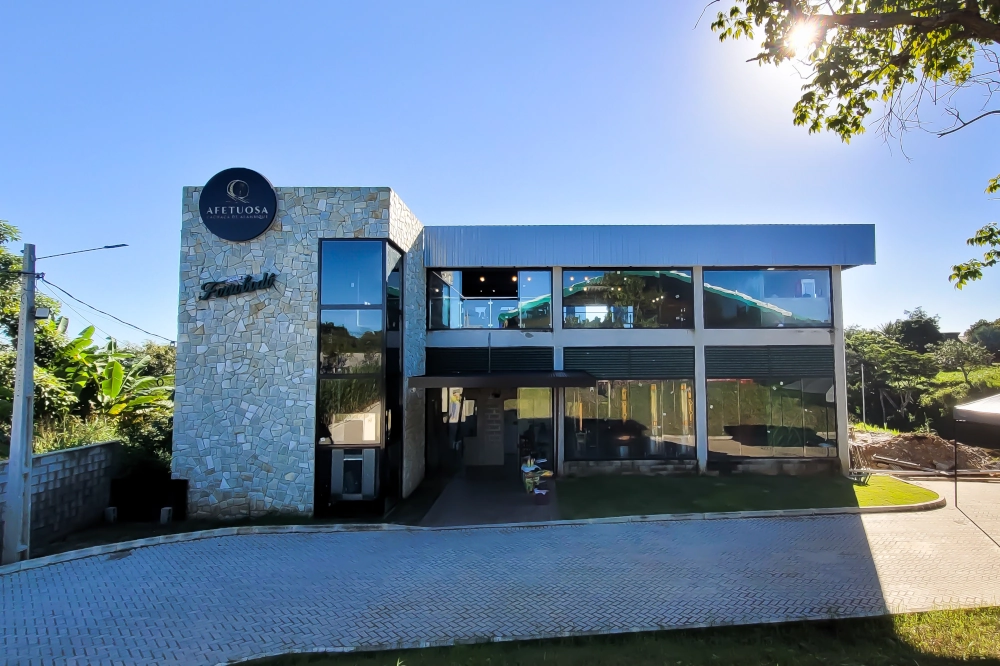
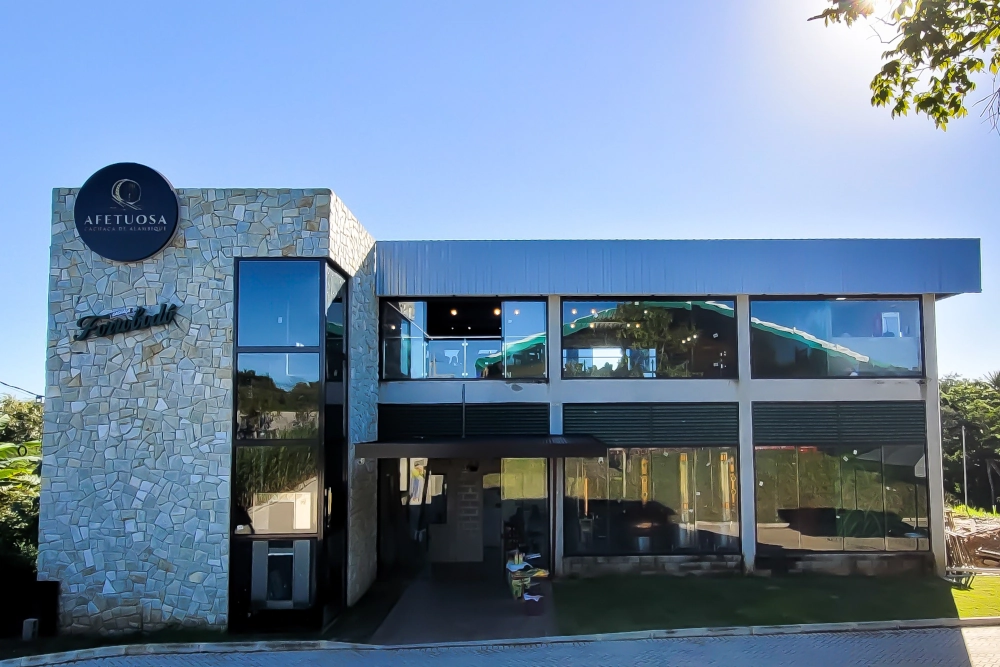
atualizando sobre

diff --git a/style.css b/style.css
@@ -15,9 +15,9 @@ VERSÃO REFINADA (ajustes pontuais solicitados)
     --cor-dourado: #B28600;
     --cor-dourado-claro: #D9B54A;
     --cor-texto-claro: #F2EDE3;
-    --cor-texto-claro-dim: rgba(242, 237, 227, 0.65);
+    --cor-texto-claro-dim: rgba(242, 237, 227, 0.85);
     --cor-texto-escuro: #1A1612;
-    --cor-texto-escuro-dim: rgba(26, 22, 18, 0.62);
+    --cor-texto-escuro-dim: rgba(26, 22, 18, 0.85);
     --cor-branca: #FFFFFF;
 
     --cor-faq-bg-hover: #F6F3EC;
@@ -503,7 +503,6 @@ main {
     max-width: 480px;
 }
 
-/* Mesmo tamanho real (480px) da imagem da seção Home, em qualquer largura de tela */
 .sobre-foto-wrap {
     width: 100%;
     max-width: 480px;
@@ -512,7 +511,7 @@ main {
 
 .sobre-foto {
     width: 100%;
-    aspect-ratio: 4 / 3;
+    aspect-ratio: 1000 / 667;
     object-fit: cover;
     border-radius: var(--radius-global);
 }
@@ -590,6 +589,7 @@ main {
     flex-direction: column;
     border: 1px solid rgba(217, 181, 74, 0.08);
     transition: transform var(--transition), border-color var(--transition);
+    cursor: pointer;
 }
 
 .destilaria-item:hover {
@@ -634,11 +634,19 @@ main {
     transition: transform 0.45s ease;
 }
 
-.destilaria-item:hover .destilaria-foto-container img {
-    transform: scale(1.03);
+.destilaria-item:hover {
+    transform: translateY(-3px);
+    border-color: rgba(217, 181, 74, 0.18);
 }
 
-/* SETAS DESTILARIA */
+.destilaria-item.ativo {
+    border-color: rgba(217, 181, 74, 0.4);
+}
+
+.destilaria-item.ativo h3 {
+    color: var(--cor-dourado);
+}
+
 .destilaria-seta {
     width: 48px;
     height: 48px;
@@ -1090,23 +1098,16 @@ main {
 /* RESPONSIVIDADE */
 @media (max-width: 1024px) {
     .home {
-        grid-template-columns: 1fr;
-        padding: 40px 32px;
-        text-align: left;
-        row-gap: 26px;
+        grid-template-columns: 1fr 360px;
+        padding-right: 48px;
     }
 
     .home-esquerda {
-        padding: 0;
-        align-items: flex-start;
+        padding: 48px 40px 48px 48px;
     }
 
     .home-titulo {
-        font-size: 2.4rem;
-    }
-
-    .home-foto-container {
-        padding: 0 0 20px 0;
+        font-size: 2.2rem;
     }
 
     .sobre,
@@ -1115,22 +1116,20 @@ main {
     .visitacao,
     .localizacao,
     .faq {
-        padding: 80px 32px;
+        padding: 100px 48px;
     }
 
-    .sobre-conteudo,
-    .visitacao-conteudo,
-    .localizacao-conteudo {
-        grid-template-columns: 1fr;
-        gap: 40px;
-    }
-
-    .destilaria-item {
-        flex: 0 0 calc((100% - 24px) / 2);
+    .sobre-conteudo {
+        grid-template-columns: 1fr 360px;
+        gap: 48px;
     }
 
     .produtos-grid {
-        grid-template-columns: repeat(2, 1fr);
+        gap: 24px;
+    }
+
+    .localizacao-conteudo {
+        gap: 48px;
     }
 }
 
@@ -1205,14 +1204,6 @@ main {
         flex: 0 0 85%;
         align-items: center;
         text-align: center;
-    }
-
-    .destilaria-item.ativo {
-        border-color: rgba(217, 181, 74, 0.4);
-    }
-
-    .destilaria-item.ativo h3 {
-        color: var(--cor-dourado);
     }
     
     .destilaria-item.animar {

diff --git a/index.html b/index.html
@@ -172,7 +172,7 @@
                 <div class="destilaria-item animar">
                     <div class="destilaria-num">04</div>
                     <h3>Destilação</h3>
-                    <p>Em alambiques de cobre, apenas o coração da destilação é preservado. Esse cuidado elimina impurezas e revela uma cachaça mais pura e suave.</p>
+                    <p>Em alambiques de cobre, apenas o coração da destilação é preservado, deixando a cachaça mais pura e suave.</p>
                     <div class="destilaria-foto-container">
                         <img src="imagens/destilacao.webp" alt="Imagem de onde acontece o processo de destilação">
                     </div>

diff --git a/script.js b/script.js
@@ -207,7 +207,6 @@
             iniciarAutoplay();
         }
 
-        if (isMobile) {
     lista.querySelectorAll('.destilaria-item').forEach(function (item) {
         item.addEventListener('click', function (e) {
             e.stopPropagation();
@@ -233,7 +232,6 @@
         pausadoPorClique = false;
         iniciarAutoplay();
     });
-}
     }
 
     initMenu();